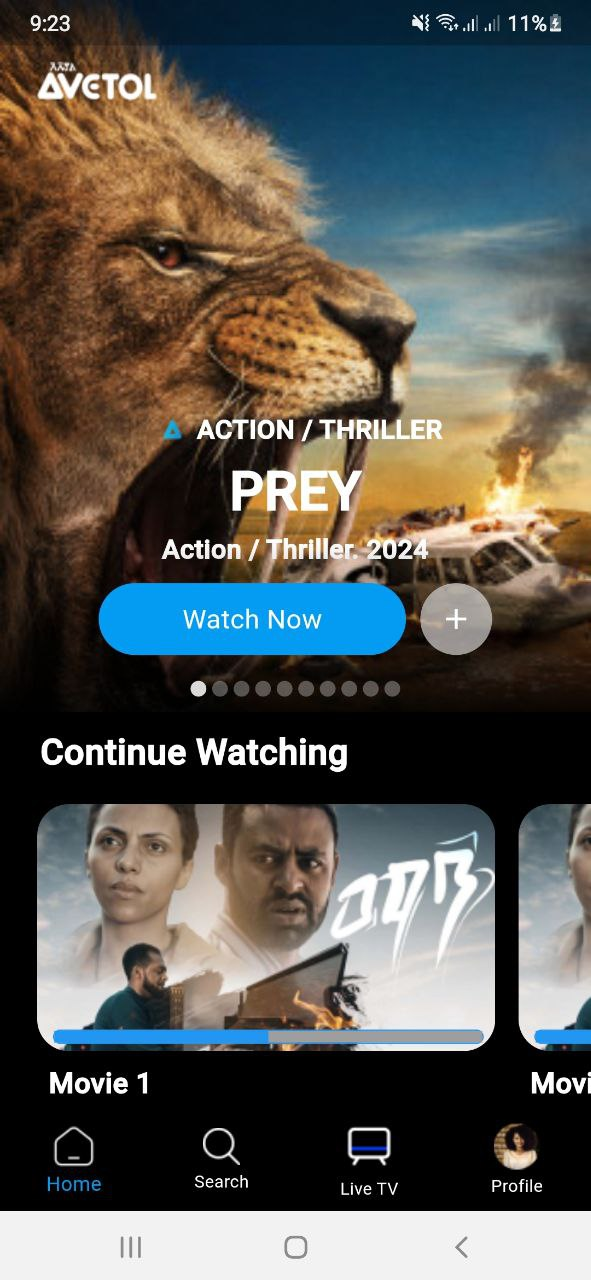
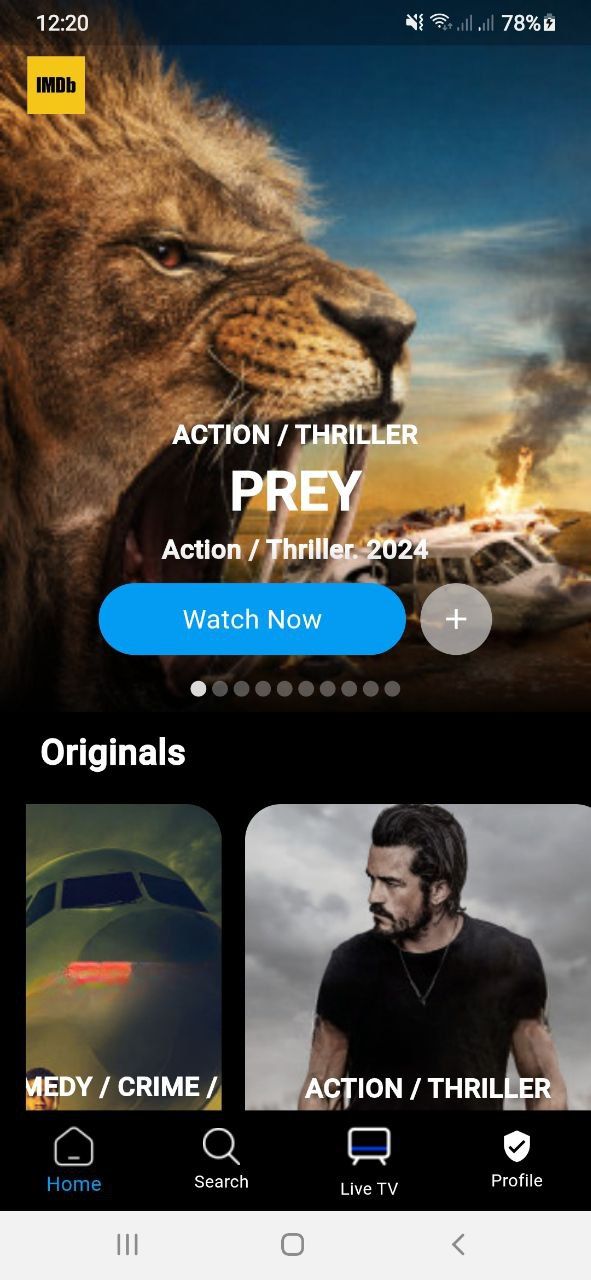
added demo images

diff --git a/lib/widgets/home_page.dart b/lib/widgets/home_page.dart
@@ -222,140 +222,12 @@ class HomePage extends StatelessWidget {
                   ],
                 ),
 
-                /// continue watching
-                Padding(
-                  padding: const EdgeInsets.only(left: 28.0, top: 10),
-                  child: Text(
-                    ImdbStrings.continueWatching,
-                    textAlign: TextAlign.left,
-                    style: AppFonts.small(fontFamily: AppFonts.roboto).copyWith(
-                        fontSize: 20.sp,
-                        fontWeight: FontWeight.bold,
-                        color: Colors.white),
-                  ),
-                ),
 
-              /*  Padding(
-                  padding: const EdgeInsets.only(left: 18.0, top: 10),
-                  child: SizedBox(
-                    height: 247,
-                    child: ListView.builder(
-                      scrollDirection: Axis.horizontal,
-                      itemCount: 4,
-                      itemBuilder: (context, index) {
-                        List<Map<String, dynamic>> items = [
-                          {
-                            'percentage': 0.5,
-                            'imageLocation': AvetolResources.continueWatching,
-                            'title': 'Movie 1'
-                          },
-                          {
-                            'percentage': 0.75,
-                            'imageLocation': AvetolResources.continueWatching,
-                            'title': 'Movie 2'
-                          },
-                          {
-                            'percentage': 0.25,
-                            'imageLocation': AvetolResources.continueWatching,
-                            'title': 'Movie 3'
-                          },
-                          {
-                            'percentage': 1.0,
-                            'imageLocation': AvetolResources.continueWatching,
-                            'title': 'Movie 4'
-                          },
-                        ];
-
-                        Map<String, dynamic> itemData = items[index];
-
-                        return Padding(
-                          padding: const EdgeInsets.all(8.0),
-                          child: ImageTitleDisplay(
-                            showAPlus: false,
-                            percentage: itemData['percentage'],
-                            imageLoction: itemData['imageLocation'],
-                            title: itemData['title'],
-                          ),
-                        );
-                      },
-                    ),
-                  ),
-                ),
-                */
-
-                /// trending
-/*
-                Padding(
-                  padding: const EdgeInsets.only(left: 28.0, top: 10),
-                  child: Text(
-                   AvetolStrings.trending,
-                    textAlign: TextAlign.left,
-                    style: AppFonts.small(fontFamily: AppFonts.roboto).copyWith(
-                        fontSize: 20.sp,
-                        fontWeight: FontWeight.bold,
-                        color: Colors.white),
-                  ),
-                ),
-
-                Padding(
-                  padding: const EdgeInsets.only(left: 18.0, top: 10),
-                  child: SizedBox(
-                    height: 247,
-                    child: ListView.builder(
-                      scrollDirection: Axis.horizontal,
-                      itemCount: 4,
-                      itemBuilder: (context, index) {
-                        List<Map<String, dynamic>> items = [
-                          {
-                            'percentage': null,
-                            'imageLocation': AvetolResources.trending,
-                            'title': 'Movie 1'
-                          },
-                          {
-                            'percentage': null,
-                            'imageLocation': AvetolResources.trending,
-                            'title': 'Movie 2'
-                          },
-                          {
-                            'percentage': null,
-                            'imageLocation': AvetolResources.trending,
-                            'title': 'Movie 3'
-                          },
-                          {
-                            'percentage': null,
-                            'imageLocation': AvetolResources.trending,
-                            'title': 'Movie 4'
-                          },
-                        ];
-
-                        Map<String, dynamic> itemData = items[index];
-
-                        return Padding(
-                          padding: const EdgeInsets.all(8.0),
-                          child: ImageTitleDisplay(
-                            showAPlus: true,
-                            percentage: itemData['percentage'],
-                            imageLoction: itemData['imageLocation'],
-                            title: itemData['title'],
-                          ),
-                        );
-                      },
-                    ),
-                  ),
-                ),
-
-                /// avetol originals
-                Padding(
-                  padding: const EdgeInsets.only(left: 28.0, top: 10),
-                  child: Image.asset(AvetolResources.logoSmall),
-                ),
-*/
-          /*
                 /// orginals text
                 Padding(
                   padding: const EdgeInsets.only(left: 28.0, top: 10),
                   child: Text(
-                    AvetolStrings.originals,
+                    ImdbStrings.originals,
                     textAlign: TextAlign.left,
                     style: AppFonts.small(fontFamily: AppFonts.roboto).copyWith(
                         fontSize: 20.sp,
@@ -442,202 +314,7 @@ class HomePage extends StatelessWidget {
                   ),
                 ),
 
-                /// ads
-                Padding(
-                  padding: const EdgeInsets.all(8.0),
-                  child: Image.asset(AvetolResources.ads),
-                ),
 
-                /// avetol shows
-                Padding(
-                  padding: const EdgeInsets.only(left: 28.0, top: 10),
-                  child: Text(
-                    AvetolStrings.avetolShows,
-                    textAlign: TextAlign.left,
-                    style: AppFonts.small(fontFamily: AppFonts.roboto).copyWith(
-                        fontSize: 20.sp,
-                        fontWeight: FontWeight.bold,
-                        color: Colors.white),
-                  ),
-                ),
-*/
-          /*
-                Padding(
-                  padding: const EdgeInsets.only(left: 18.0, top: 10),
-                  child: SizedBox(
-                    height: 247,
-                    child: ListView.builder(
-                      scrollDirection: Axis.horizontal,
-                      itemCount: 4,
-                      itemBuilder: (context, index) {
-                        List<Map<String, dynamic>> items = [
-                          {
-                            'percentage': null,
-                            'imageLocation': AvetolResources.avShows,
-                            'title': '#Time With Danayit'
-                          },
-                          {
-                            'percentage': null,
-                            'imageLocation': AvetolResources.avShows,
-                            'title': 'Dereb Show'
-                          },
-                          {
-                            'percentage': null,
-                            'imageLocation': AvetolResources.avShows,
-                            'title': 'Dereb Show'
-                          },
-                          {
-                            'percentage': null,
-                            'imageLocation': AvetolResources.avShows,
-                            'title': '#Time With Danayit'
-                          },
-                        ];
-
-                        Map<String, dynamic> itemData = items[index];
-
-                        return Padding(
-                          padding: const EdgeInsets.all(8.0),
-                          child: ImageTitleDisplay(
-                            showAPlus: false,
-                            percentage: itemData['percentage'],
-                            imageLoction: itemData['imageLocation'],
-                            title: itemData['title'],
-                          ),
-                        );
-                      },
-                    ),
-                  ),
-                ),
-
-                /// live channels
-
-                Padding(
-                  padding: const EdgeInsets.only(left: 28.0, top: 10),
-                  child: Row(
-                    mainAxisAlignment: MainAxisAlignment.spaceBetween,
-                    children: [
-                      Text(
-                        AvetolStrings.avetolTvShows,
-                        textAlign: TextAlign.left,
-                        style: AppFonts.small(fontFamily: AppFonts.roboto)
-                            .copyWith(
-                                fontSize: 20.sp,
-                                fontWeight: FontWeight.bold,
-                                color: Colors.white),
-                      ),
-                      Image.asset(AvetolResources.arrow)
-                    ],
-                  ),
-                ),
-
-                Padding(
-                  padding: const EdgeInsets.only(left: 18.0, top: 10),
-                  child: SizedBox(
-                    height: 234,
-                    child: ListView.builder(
-                      scrollDirection: Axis.horizontal,
-                      itemCount: 4,
-                      itemBuilder: (context, index) {
-                        List<Map<String, dynamic>> items = [
-                          {
-                            'percentage': null,
-                            'imageLocation': AvetolResources.ebs,
-                            'title': ''
-                          },
-                          {
-                            'percentage': null,
-                            'imageLocation': AvetolResources.ebs,
-                            'title': ''
-                          },
-                          {
-                            'percentage': null,
-                            'imageLocation': AvetolResources.ebs,
-                            'title': ''
-                          },
-                          {
-                            'percentage': null,
-                            'imageLocation': AvetolResources.ebs,
-                            'title': ''
-                          },
-                        ];
-
-                        Map<String, dynamic> itemData = items[index];
-
-                        return Padding(
-                          padding: const EdgeInsets.all(8.0),
-                          child: ImageTitleDisplay(
-                            showAPlus: false,
-                            percentage: itemData['percentage'],
-                            imageLoction: itemData['imageLocation'],
-                            title: itemData['title'],
-                          ),
-                        );
-                      },
-                    ),
-                  ),
-                ),
-
-                /// exculisive
-
-                Padding(
-                  padding: const EdgeInsets.only(left: 28.0, top: 10),
-                  child: Text(
-                   AvetolStrings.exclusives,
-                    textAlign: TextAlign.left,
-                    style: AppFonts.small(fontFamily: AppFonts.roboto).copyWith(
-                        fontSize: 20.sp,
-                        fontWeight: FontWeight.bold,
-                        color: Colors.white),
-                  ),
-                ),
-
-                Padding(
-                  padding: const EdgeInsets.only(left: 18.0, top: 10),
-                  child: SizedBox(
-                    height: 247,
-                    child: ListView.builder(
-                      scrollDirection: Axis.horizontal,
-                      itemCount: 4,
-                      itemBuilder: (context, index) {
-                        List<Map<String, dynamic>> items = [
-                          {
-                            'percentage': null,
-                            'imageLocation': AvetolResources.exclusive,
-                            'title': 'Weraj'
-                          },
-                          {
-                            'percentage': null,
-                            'imageLocation': AvetolResources.exclusive,
-                            'title': 'Weraaj'
-                          },
-                          {
-                            'percentage': null,
-                            'imageLocation': AvetolResources.exclusive,
-                            'title': 'Ere Weraj'
-                          },
-                          {
-                            'percentage': null,
-                            'imageLocation': AvetolResources.exclusive,
-                            'title': 'Ende Weraj'
-                          },
-                        ];
-
-                        Map<String, dynamic> itemData = items[index];
-
-                        return Padding(
-                          padding: const EdgeInsets.all(8.0),
-                          child: ImageTitleDisplay(
-                            showAPlus: false,
-                            percentage: itemData['percentage'],
-                            imageLoction: itemData['imageLocation'],
-                            title: itemData['title'],
-                          ),
-                        );
-                      },
-                    ),
-                  ),
-                ),
-*/
                 /// categories
 
                 Padding(

diff --git a/lib/const/imdb_colors.dart b/lib/const/imdb_colors.dart
@@ -9,7 +9,7 @@ class ImdbColors{
 }
 
 class ImdbStrings{
-  static const String aplus ="A PLUS";
+  static const String aplus ="MDB PLUS";
   static const String watchNow="Watch Now";
   static const String continueWatching="Continue Watching";
   static const String originals="Originals";

diff --git a/android/app/src/main/kotlin/com/movies/livestream/MainActivity.kt b/android/app/src/main/kotlin/com/movies/livestream/MainActivity.kt
@@ -1,4 +1,4 @@
-package com.avetol.livestream.avetol
+package com.movies.livestream
 
 import io.flutter.embedding.android.FlutterActivity
 

diff --git a/README.md b/README.md
@@ -4,13 +4,13 @@
 ![demo one](demo/demoinit.jpg)
 ![demo two](demo/demotwo.jpg)
 ![demo three](demo/demothree.jpg)
-![demo four](demo/demo.jpg)
+![demo four](demo/demofour.jpg)
 
 
 
 ## Getting Started
 
-This project intended to demonstrate avetol new UI design.
+This project intended to demonstrate simple movies UI you will learn container, linear gradients, providers and logics from this flutter app.
 
 A few resources to get you started if this is your first Flutter project:
 
